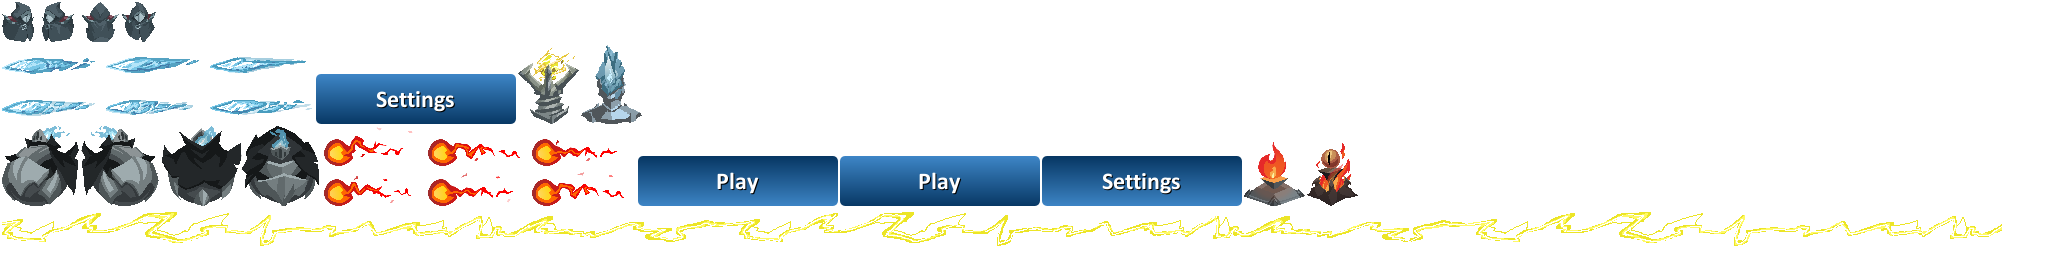
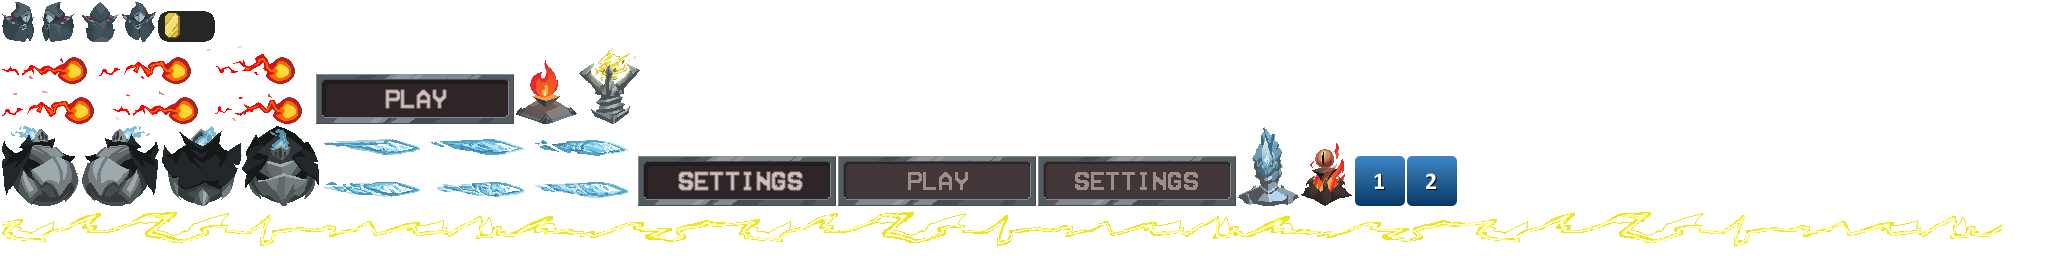
Updated maptile, added numerous sprites
Added: Gold Display, updated play and settings button. Added tile-files
for map.

Changed region(s): [[0.1562, 0.5, 0.7188, 0.8125], [0.0, 0.1875, 0.3125, 0.8125], [0.0625, 0.0312, 0.125, 0.1875]]

diff --git a/android/assets/greytilemap.tsx b/android/assets/greytilemap.tsx
@@ -1,0 +1,4 @@
+<?xml version="1.0" encoding="UTF-8"?>
+<tileset name="GreyTilemap" tilewidth="20" tileheight="20" tilecount="1408" columns="44">
+ <image source="../../../../Dropbox/Photoshop/Clash of Defense Towers/maptile.png" width="886" height="648"/>
+</tileset>

diff --git a/android/assets/shoptile.tsx b/android/assets/shoptile.tsx
@@ -1,0 +1,4 @@
+<?xml version="1.0" encoding="UTF-8"?>
+<tileset name="shop" tilewidth="20" tileheight="20" tilecount="544" columns="17">
+ <image source="../../../../Dropbox/Photoshop/Clash of Defense Towers/shoptile.png" width="350" height="648"/>
+</tileset>
